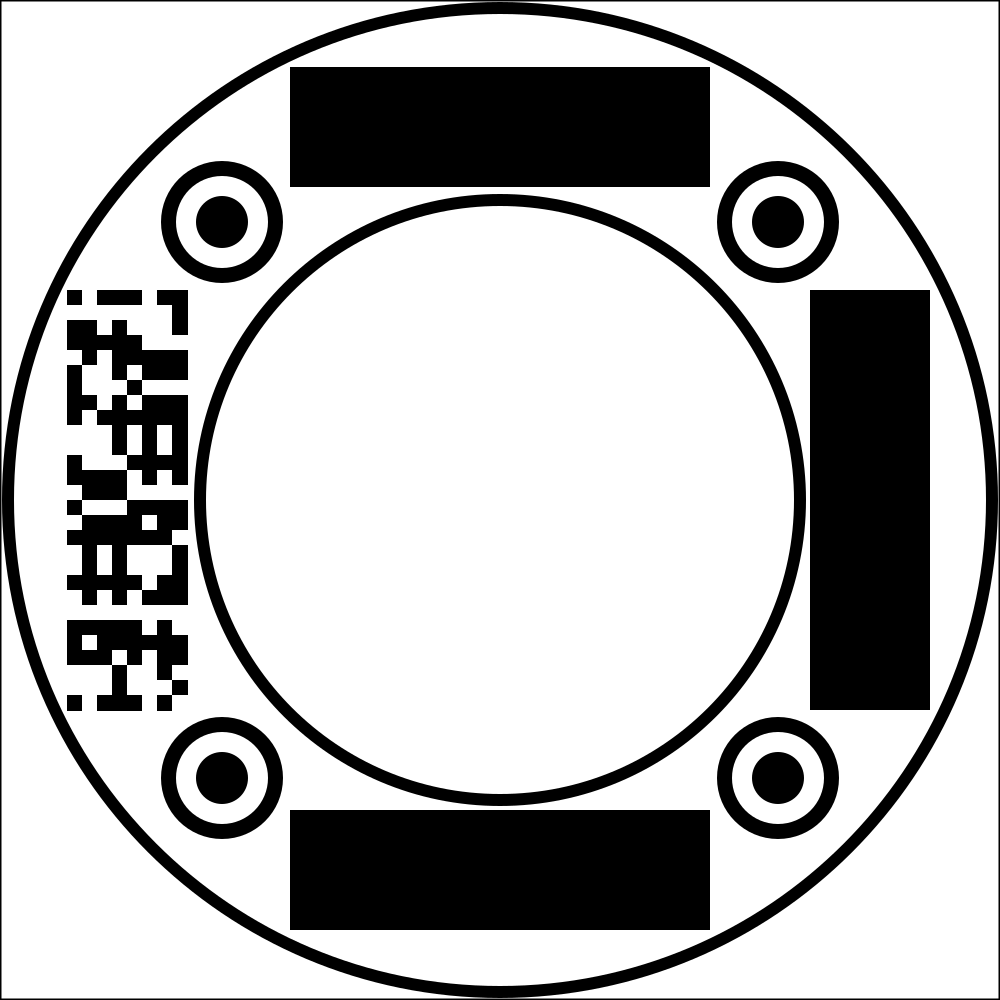
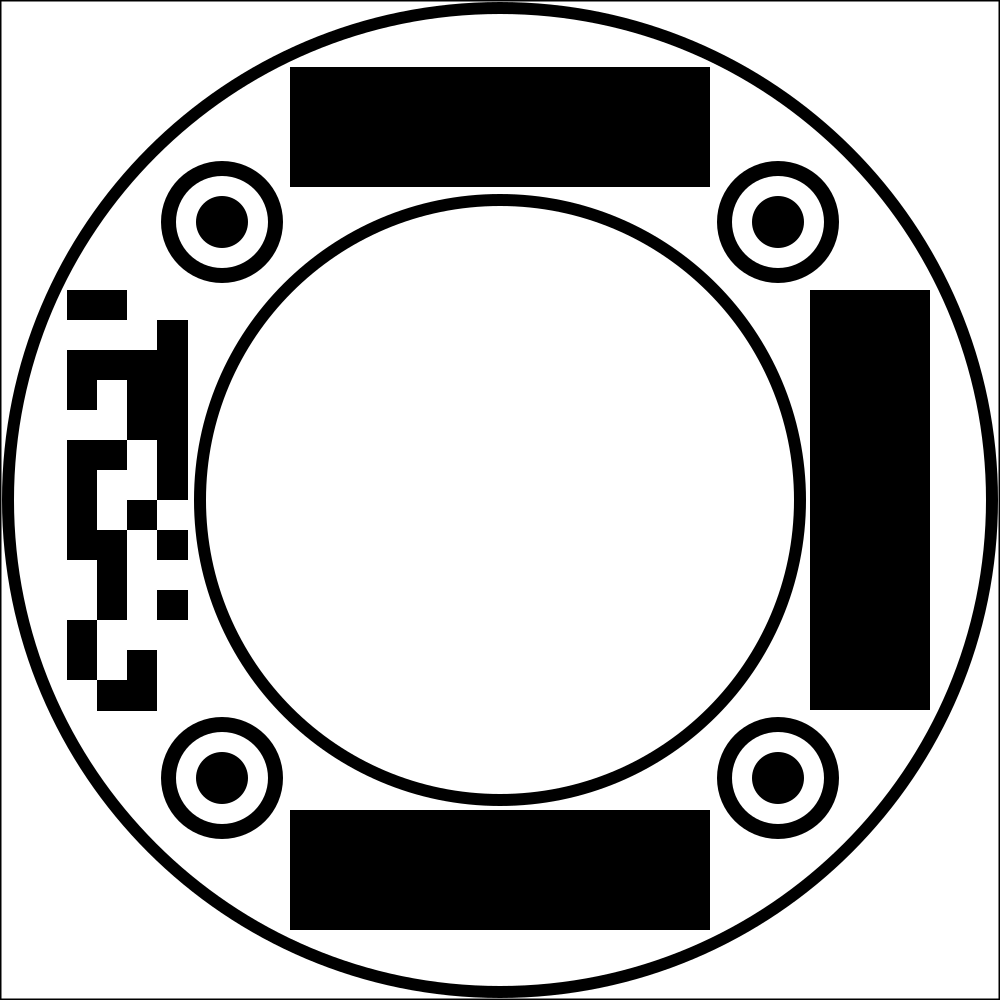
uuu

Changed region(s): [[0.062, 0.279, 0.186, 0.713]]

diff --git a/encodeUtil.py b/encodeUtil.py
@@ -1,4 +1,5 @@
 from PIL import Image, ImageDraw
+import cv2 as cv
 
 def encodeData(imgDraw, data, xpos, ypos, width, height, pixelSize):
     index = 0
@@ -21,23 +22,32 @@ def encodeData(imgDraw, data, xpos, ypos, width, height, pixelSize):
 def readPos(img, xpos, ypos, pixelSize, thres):
     accum = 0
     iter = 0
+    pixelSize = pixelSize // 2
     for x in range(xpos, xpos + pixelSize):
         for y in range(ypos, ypos + pixelSize):
-            accum += img[x][y]
+            accum += img[y][x]
             iter += 1
     
     return (accum / iter) > thres
 
-def decodeDataUTF(img, xpos, ypos, width, height, pixelSize):
+def circle(img, center, r, color):
+    x = center[0]
+    y = center[1]
+    cv.circle(img, center, r, color, 2)
+    
+def decodeDataUTF(og, img, xpos, ypos, width, height, pixelSize):
     currentByte = []
     output = ""
     for x in range(xpos, xpos + width, pixelSize):
         for y in range(ypos, ypos + height, pixelSize):            
             boolVal = readPos(img, x, y, pixelSize, 128)
+            center = (x + pixelSize // 2, y + pixelSize // 2)
             if boolVal:
                 currentByte.append(1)
+                cv.circle(og, center, pixelSize//2, (255, 0, 0))
             else:
                 currentByte.append(0)
+                cv.circle(og, center, pixelSize//2, (0, 0, 255))
             if len(currentByte) == 8:
                 byteStr = "".join(str(b) for b in currentByte[::])
                 intVal = int(byteStr, 2)
@@ -46,3 +56,8 @@ def decodeDataUTF(img, xpos, ypos, width, height, pixelSize):
                 currentByte = []
     return output
     
+def drawPos(img, xpos, ypos, width, height, pixelSize):
+    for x in range(xpos, xpos + width, pixelSize):
+        for y in range(ypos, ypos + height, pixelSize):
+            center = (x + pixelSize // 2, y + pixelSize // 2)
+            cv.circle(img, center, pixelSize//2, (25, 0, 0))

diff --git a/circleTest.py b/circleTest.py
@@ -59,11 +59,15 @@ while(True):
 
                     # gray = cv.cvtColor(original, cv.COLOR_BGR2GRAY)
                     final = u.transformImage(floatCorners, original)
-                    final = cv.cvtColor(final, cv.COLOR_BGR2GRAY)
                     final = cv.flip(final, 0)
-                    text = en.decodeDataUTF(final, 67, 290, 120, 420, 15)
+                    pg = final
+                    
+                    final = cv.cvtColor(final, cv.COLOR_BGR2GRAY)
+
+                    text = en.decodeDataUTF(pg, final, 67, 290, 120, 420, 30)
+                    # en.drawPos(final, 67, 290, 120, 420, 30)
                     print(text)
-                    cv.imshow("ya", final)
+                    cv.imshow("ya", pg)
 
 
 

diff --git a/encode.py b/encode.py
@@ -12,13 +12,13 @@ imgDraw = ImageDraw.Draw(img)
 dataString = "Hello World! Hello World! Hello World!"
 data = BitArray(bytes(dataString, "utf-8"))
 
-en.encodeData(imgDraw, data, 67, 290, 120, 420, 15)
+en.encodeData(imgDraw, data, 67, 290, 120, 420, 30)
 
-# img.show()
-# img.save("farto.png")
+img.show()
+img.save("farto.png")
 
 encoded = cv.imread('farto.png', 0)
 # encoded = cv.cvtColor(encoded, cv.COLOR_BGR2GRAY)
 cv.imshow("aoieaoi", encoded)
-text = en.decodeDataUTF(encoded, 67, 290, 120, 420, 15)
+text = en.decodeDataUTF(encoded, 67, 290, 120, 420, 30)
 print(text)
